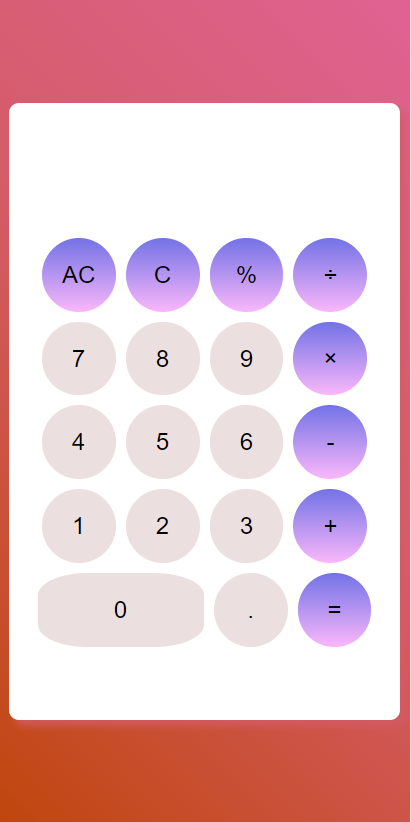
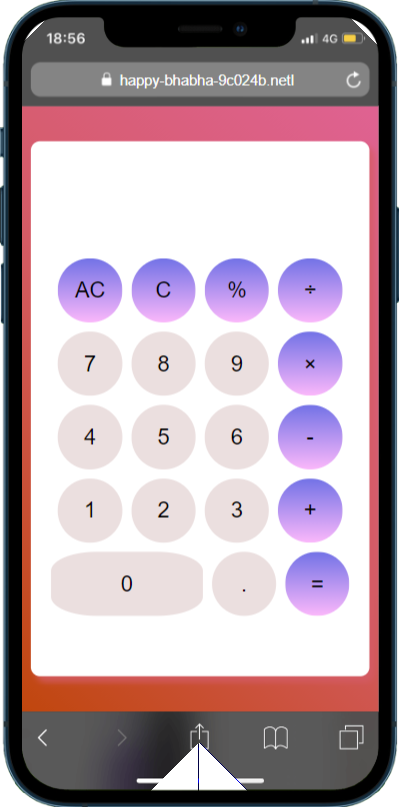
Updated project images

diff --git a/src/components/Projects.js b/src/components/Projects.js
@@ -18,6 +18,7 @@ const Item = styled.div`
   background-size: contain;
   background-repeat: no-repeat;
   background-position: 50% 50%;
+  /* background-size: 90%; */
   transition: 0.5s;
 
   @media(hover: hover){
@@ -76,7 +77,6 @@ const PageWrapper = styled.div`
   }
   #calculator{
     background-image:url(${process.env.PUBLIC_URL + "calculatorMobile.PNG"});
-    background-size: 90%;
   }
   }
 `;
